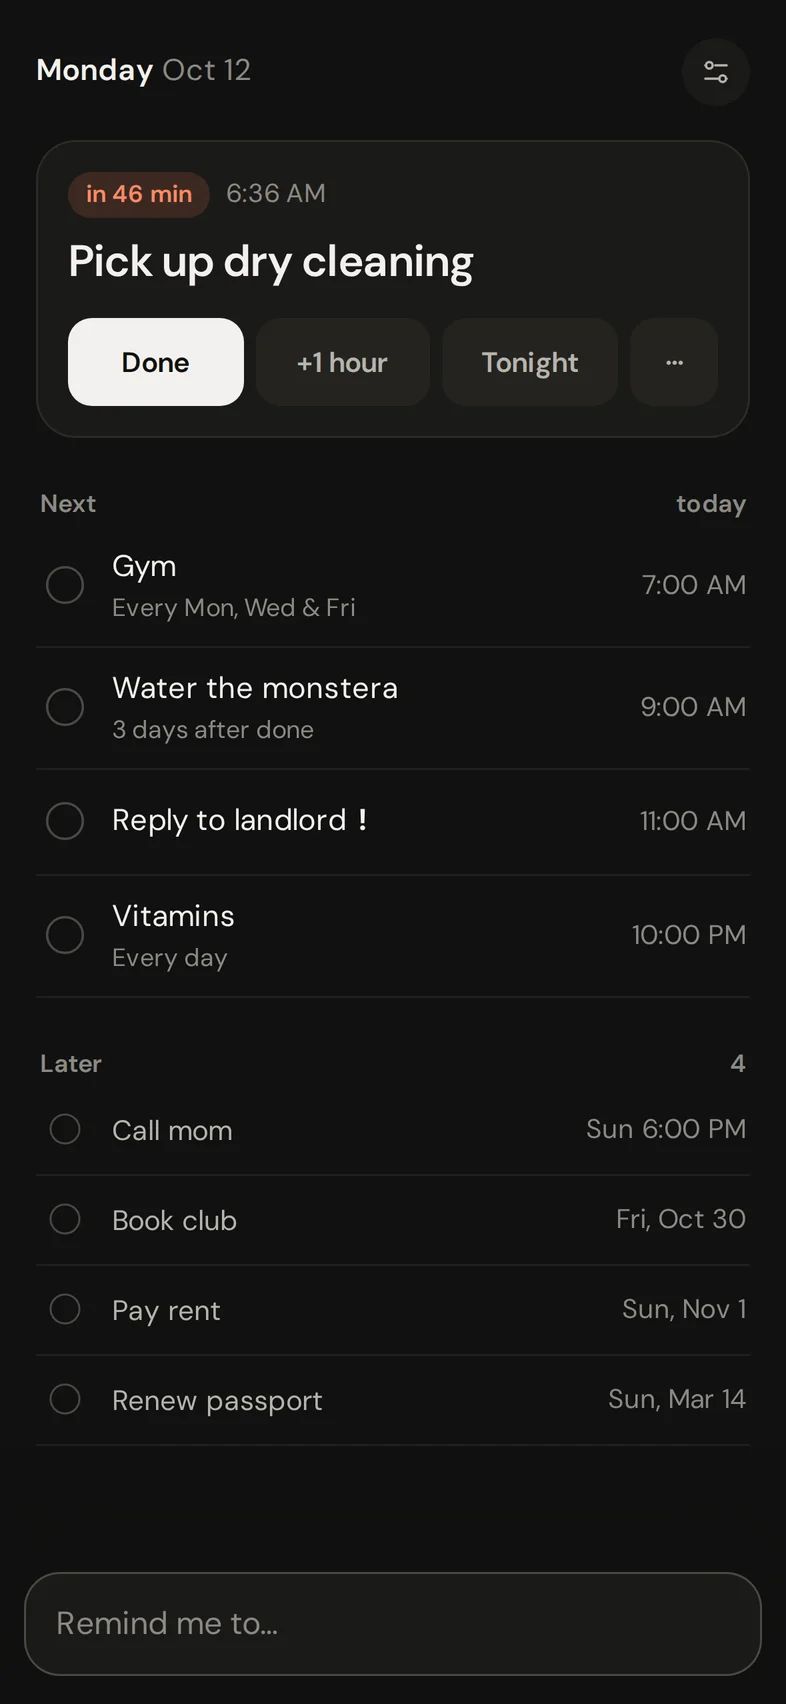
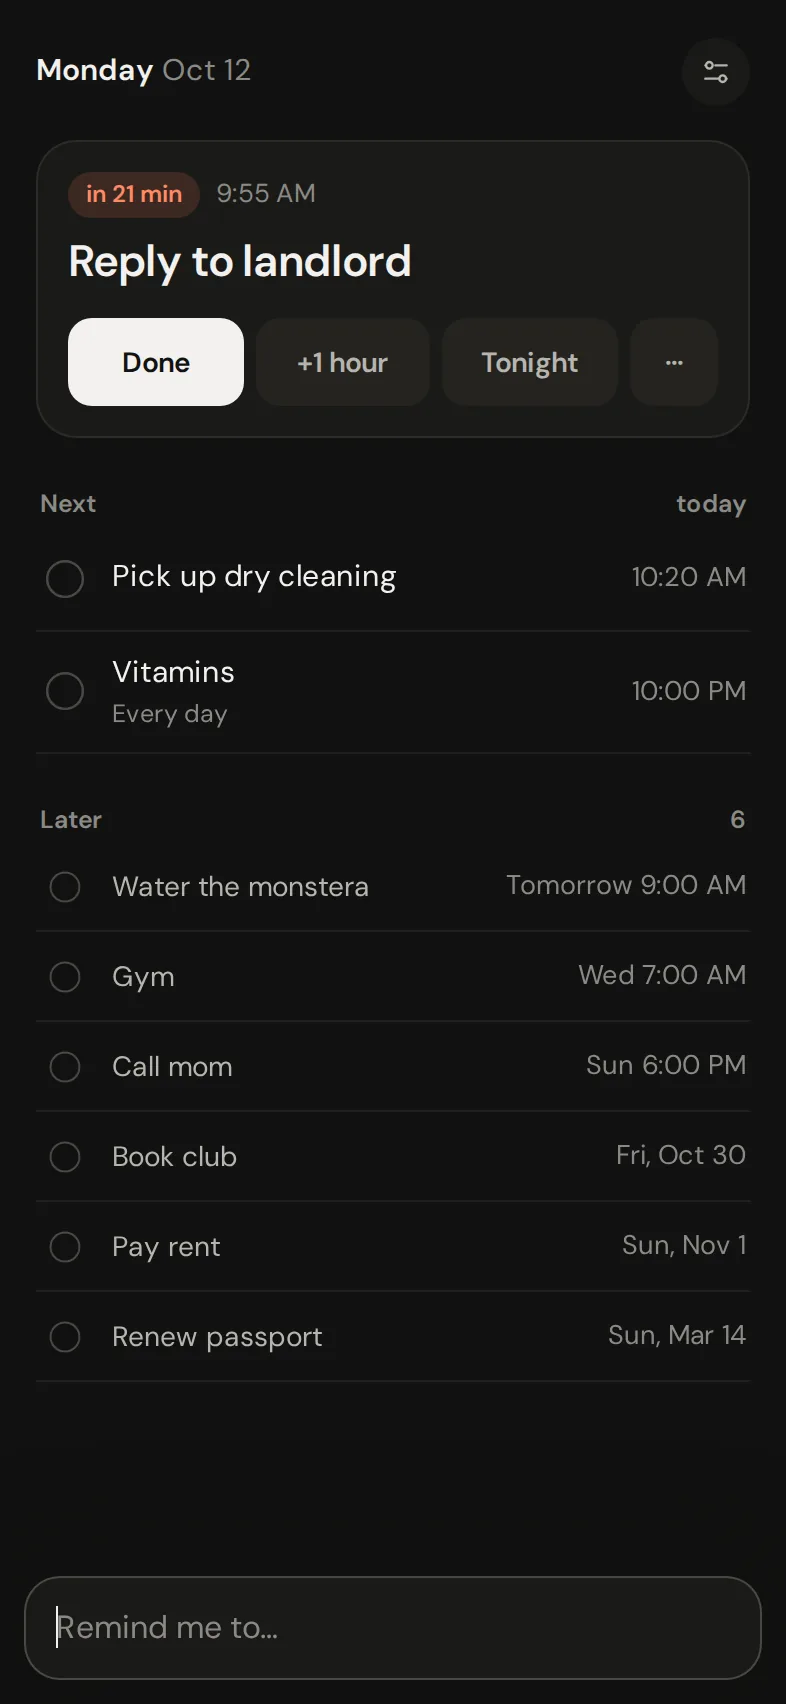
docs: refresh the README screenshots and describe the composer summary and the desktop layout (#34)
## What

- **Screenshots:** all four README images were retaken from the current
`main`, after #24–#33. iPhone shows home, the composer typing "yoga
every tue 7am" with the summary pill, and the editor with the new
segmented "Also remind me". Windows shows the two-pane layout with the
editor docked.
- **Text:** the composer alt text and bullet now describe the send
button's summary instead of the old preview line. There's a new bullet
for the PC layout (docked editor, right-click menu, `?` shortcuts), and
the Windows alt text is more specific.

## Verification

- Images come from the real app under `wrangler dev`, driven in headless
Chromium through enrollment and typed reminders: iPhone 393×852 @2x, and
Windows 1400×900 @2x downscaled to 1400 px. They're WebP, 25–35 kB each.
- All gates pass.

![iPhone: home, composer and
editor](https://github.com/user-attachments/assets/70b5ebde-1f8c-4764-a8c0-9129048aae5a)

![Windows: list with the docked
editor](https://github.com/user-attachments/assets/f23f3add-b499-4218-b2e7-7d51a83d6696)

diff --git a/README.md b/README.md
@@ -3,19 +3,20 @@
 A personal reminders app that is fast to use and hard to break. It installs as a PWA on the iPhone home screen and on Windows through Edge, and alerts on time through Web Push. All of it runs on Cloudflare's free plan: one Worker plus one SQLite Durable Object per person.
 
 <p>
-  <img src="docs/screenshots/ios-home.webp" width="260" alt="Home on iPhone: the reminder due now with Done and Snooze, then the rest of today and a quieter Later list" />
-  <img src="docs/screenshots/ios-composer.webp" width="260" alt="Typing a reminder: the time and the repeat it understood turn coral, and a line says exactly what will be saved" />
+  <img src="docs/screenshots/ios-home.webp" width="260" alt="Home on iPhone: the next reminder on top with Done and Snooze, then the rest of today and a quieter Later list" />
+  <img src="docs/screenshots/ios-composer.webp" width="260" alt="Typing a reminder: the time and the repeat it understood turn coral, and the send button says when it will remind and how often" />
   <img src="docs/screenshots/ios-editor.webp" width="260" alt="Editing a reminder" />
 </p>
 <p>
-  <img src="docs/screenshots/windows-home.webp" width="800" alt="Nudge on Windows" />
+  <img src="docs/screenshots/windows-home.webp" width="800" alt="Nudge on Windows: the list with the editor docked beside it" />
 </p>
 
 - **Now, next, later.** The reminder that matters right now sits on top with Done and Snooze ready. The rest of today follows, and everything later is quieter.
-- **Type it like you'd say it.** "dentist next tue 10am every 6 months", "water the plants every 3 days after done", "book club last fri of the month 7pm". What Nudge understood is highlighted as you type, and it tells you exactly what it will save.
+- **Type it like you'd say it.** "dentist next tue 10am every 6 months", "water the plants every 3 days after done", "book club last fri of the month 7pm". What Nudge understood is highlighted as you type, and the send button says when it will remind you and how often.
 - **Repeats are real calendar rules (RFC 5545)**, plus repeats that count from when you finish. Times follow you when you travel.
 - **It always shows up.** The server wakes for each reminder on the exact second, retries, resends when the phone doesn't confirm, and tells you on Telegram if something's off.
 - **Works offline.** Everything is local first and syncs when you're back.
+- **Feels at home on a PC.** On a wide window the editor docks beside the list, rows have a right-click menu, and common actions have keyboard shortcuts (press `?` to see them).
 
 ## Deploy your own
 
